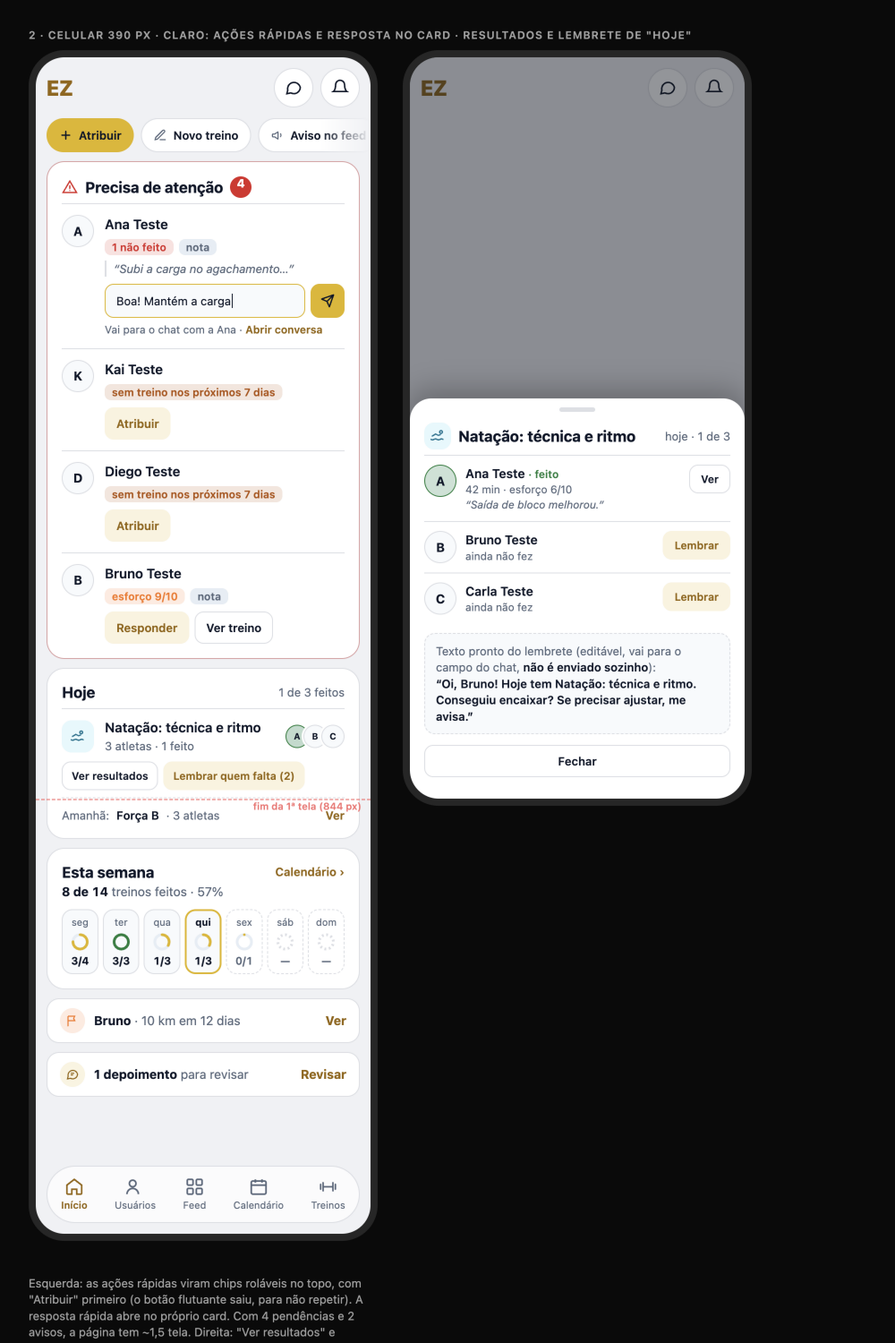
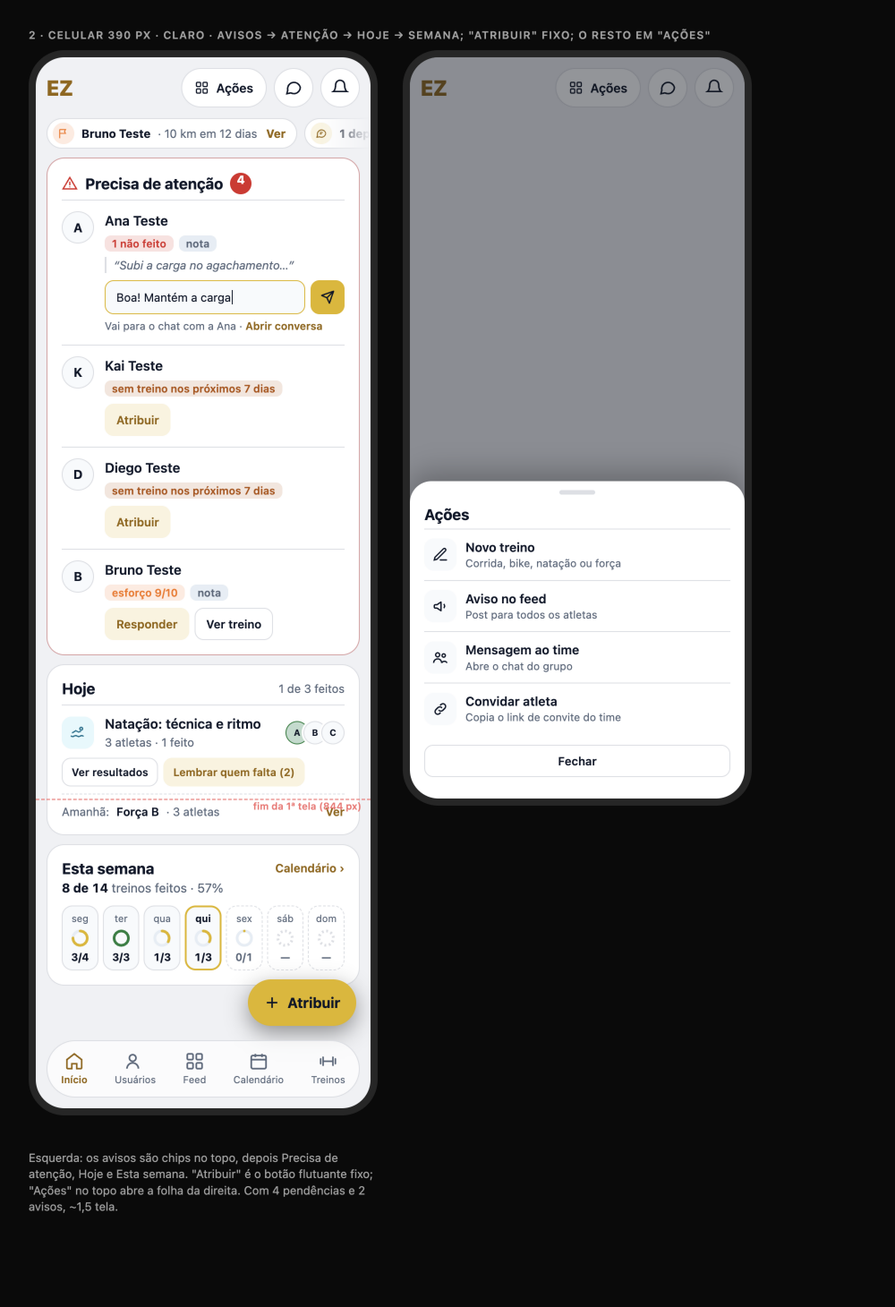
docs: coach dashboard layout variants A/B (balanced grid, actions menu, notice chips)

Changed region(s): [[0.031, 0.0, 0.775, 0.9247], [0.434, 0.2774, 0.837, 0.6164], [0.031, 0.9555, 0.403, 1.0]]

diff --git a/docs/design/coach-dashboard/dashboard-mockup.html b/docs/design/coach-dashboard/dashboard-mockup.html
@@ -3,7 +3,7 @@
 <head>
 <meta charset="utf-8">
 <meta name="viewport" content="width=device-width, initial-scale=1">
-<title>EZ · Dashboard do coach, enxuto + ações rápidas (12/11/2026)</title>
+<title>EZ · Dashboard do coach, layout A e B (12/11/2026)</title>
 <!-- Mockup estático: só CSS e SVG inline. Dados fictícios do seed. Tokens: design-system §1.5. -->
 <style>
   :root{--font:'Inter',system-ui,-apple-system,'Segoe UI',sans-serif;--display:'Montserrat','Inter',system-ui,sans-serif;
@@ -105,6 +105,32 @@
   .wd7 .c.on{border:2px solid var(--primary);padding:5px 0 6px}.wd7 .c.on span:first-child{color:var(--fg);font-weight:700}
   .wd7 .c.hv{outline:2px solid var(--fg);outline-offset:1px}
   .wd7 svg{width:22px;height:22px;transform:rotate(-90deg)}
+
+  .card,.att{border-radius:20px}
+  .desk.auto{height:auto}
+  .main{gap:14px}
+  .hd{display:flex;align-items:center;gap:10px}.hd .t{flex:1}.hd small{display:block;font-size:13px;color:var(--mfg)}.hd b.h{font:800 24px var(--display)}
+  .ob{height:40px;padding:0 14px;border-radius:11px;border:1px solid var(--border);background:var(--card);font:600 14px var(--font);display:inline-flex;align-items:center;gap:8px;color:var(--fg);position:relative}
+  .ob svg{width:16px;height:16px}
+  .ib{width:40px;height:40px;border-radius:11px;border:1px solid var(--border);background:var(--card);display:grid;place-items:center;color:var(--mfg);position:relative}.ib svg{width:17px;height:17px}
+  .ib.hv{color:var(--fg);border-color:var(--mfg)}
+  .menu{position:absolute;top:46px;right:0;width:260px;background:var(--card);border:1px solid var(--border);border-radius:14px;padding:6px;box-shadow:0 16px 40px rgba(0,0,0,.45);z-index:5}
+  .menu div{display:flex;gap:10px;align-items:center;padding:9px 10px;border-radius:9px;font-size:14px;font-weight:500}.menu div svg{width:16px;height:16px;color:var(--mfg)}.menu div:first-child{background:var(--s2)}
+  .menu small{margin-left:auto;font-size:12px;color:var(--mfg)}
+  .ns{display:flex;gap:8px;flex-wrap:nowrap}
+  .nc{height:34px;display:inline-flex;align-items:center;gap:8px;padding:0 12px 0 6px;border-radius:99px;background:var(--card);border:1px solid var(--border);font-size:13px;white-space:nowrap}
+  .nc .ic{width:24px;height:24px;border-radius:99px;display:grid;place-items:center}.nc .ic svg{width:13px;height:13px}
+  .nc .m{color:var(--mfg)}.nc a{color:var(--ink);font-weight:700;margin-left:2px}
+  .gA{display:grid;grid-template-columns:3fr 2fr;gap:14px;align-items:stretch}
+  .gA .att{max-height:640px;overflow:auto}
+  .col{display:flex;flex-direction:column;gap:14px}
+  .col .card:first-child{flex:1;display:flex;flex-direction:column}.col .card:first-child .tmr{margin-top:auto}
+  .gB2{display:grid;grid-template-columns:1fr 1fr;gap:14px;align-items:stretch}
+  .gB2 .card{display:flex;flex-direction:column}.gB2 .card .tmr{margin-top:auto}
+  .gB2 .wd7{flex:1;margin-top:6px}.gB2 .wd7 .c{align-content:center;gap:10px;font-size:12px}.gB2 .wd7 svg{width:34px;height:34px}.gB2 .wd7 .c b{font-size:15px}
+  .a4{display:grid;grid-template-columns:1fr 1fr;gap:10px;margin-top:6px}
+  .a4 .ai{border:1px solid var(--border);border-radius:14px;padding:12px;background:var(--s2)}
+  .sub{display:flex;gap:6px;align-items:center;margin-top:4px;font-size:13px;color:var(--mfg)}
 </style>
 </head>
 <body>
@@ -131,19 +157,18 @@
   <symbol id="bellr" viewBox="0 0 24 24" fill="none" stroke="currentColor" stroke-width="2"><path d="M6 8a6 6 0 0 1 12 0c0 7 3 9 3 9H3s3-2 3-9"/><path d="M10 21h4"/></symbol>
   <symbol id="chart" viewBox="0 0 24 24" fill="none" stroke="currentColor" stroke-width="2" stroke-linecap="round"><path d="M4 20V10M10 20V4M16 20v-7M22 20H2"/></symbol>
   <symbol id="check" viewBox="0 0 24 24" fill="none" stroke="currentColor" stroke-width="2.6" stroke-linecap="round" stroke-linejoin="round"><path d="m5 12 5 5 9-10"/></symbol>
-</defs></svg>
+<symbol id="grid2" viewBox="0 0 24 24"/></defs></svg>
 
-<h1 class="ttl">EZ · Dashboard do coach: enxuto + ações rápidas</h1>
-<p class="doc">Mockup estático (12/11/2026), dados fictícios do seed. As mesmas três perguntas (<b>quem precisa de mim?</b> · <b>o que acontece hoje?</b> · <b>como vai a semana?</b>), agora com <b>mais ações e nenhum número a mais</b>: faixa de ações rápidas, resposta no próprio card, resultados e lembrete por treino, e um card compacto "Esta semana" (feitos/planejados por dia; tocar abre o Calendário nesse dia). Nenhum dado novo; o que reaproveita e o que é código novo está no README.</p>
 
-<div class="lbl">1 · Desktop 1440 × 900 · escuro · cabe numa tela</div>
-<div class="row"><div class="desk dark" style="position:relative">
- <div class="side"><div class="lg">EZ</div><div class="i on">Início</div><div class="i">Usuários</div><div class="i">Treinos</div><div class="i">Times</div><div class="i">Calendário</div><div class="i">Artigos</div><div class="i">Feed</div><div class="i">Depoimentos</div></div>
- <div class="main">
-  <div class="head"><div class="t"><small>Quinta, 12 nov</small><b>Bom dia, Coach</b></div>
-   <div class="qa"><span class="qb"><svg width="14" height="14"><use href="#edit"/></svg>Novo treino</span><span class="qb"><svg width="14" height="14"><use href="#mega"/></svg>Aviso no feed</span><span class="qb"><svg width="14" height="14"><use href="#team"/></svg>Mensagem ao time</span><span class="qb"><svg width="14" height="14"><use href="#link"/></svg>Convidar atleta</span><span class="btn"><svg width="16" height="16"><use href="#plus"/></svg>Atribuir treino</span></div></div>
-  <div class="g2">
-   <div class="att">
+<h1 class="ttl">EZ · Dashboard do coach: layout (A e B) e celular</h1>
+<p class="doc">Mockup estático (12/11/2026), dados fictícios do seed. Conteúdo aprovado; aqui só muda a <b>distribuição</b>. Mesmo gap (14 px) e mesmo raio (20 px) em todos os cards; topos e bases alinhados. "Atribuir treino" é o único botão primário. Avisos viram chips numa linha e somem quando não há.</p>
+<div class="lbl">1 · Desktop 1440 · escuro · A (grade proposta) e B (alternativa), lado a lado</div>
+<div class="row" style="flex-wrap:nowrap">
+ <div id="varA"><div class="lbl" style="color:#fff">A · atenção 60% | Hoje + Esta semana 40%, mesma altura</div><div class="desk dark auto"><div class="side"><div class="lg">EZ</div><div class="i on">Início</div><div class="i">Usuários</div><div class="i">Treinos</div><div class="i">Times</div><div class="i">Calendário</div><div class="i">Artigos</div><div class="i">Feed</div><div class="i">Depoimentos</div></div><div class="main">
+ <div class="hd"><div class="t"><small>Quinta, 12 nov</small><b class="h">Bom dia, Coach</b></div>
+  <span class="ob"><svg width="14" height="14"><use href="#grid"/></svg>Ações<svg width="12" height="12" viewBox="0 0 24 24" fill="none" stroke="currentColor" stroke-width="2.4"><path d="m6 9 6 6 6-6"/></svg></span><span class="btn"><svg width="16" height="16"><use href="#plus"/></svg>Atribuir treino</span></div>
+ <div class="ns"><span class="nc"><span class="ic" style="background:hsl(25 95% 53% / .15);color:var(--str)"><svg width="14" height="14"><use href="#flag"/></svg></span><b>Bruno Teste</b><span class="m">· Corrida 10 km em 12 dias</span><a>Ver</a></span><span class="nc"><span class="ic" style="background:hsl(48 96% 45% / .15);color:var(--ink)"><svg width="14" height="14"><use href="#quote"/></svg></span><b>1 depoimento</b><span class="m">para revisar</span><a>Revisar</a></span></div>
+ <div class="gA"><div class="att">
     <div class="ch"><b><svg width="18" height="18" style="color:var(--badc)"><use href="#alert"/></svg>Precisa de atenção <span class="cnt">4</span></b><span class="r">últimos 7 dias</span></div>
     <div class="ai"><span class="av">A</span><div class="t"><div class="nm">Ana Teste</div><div class="chips"><span class="chip c-bad">1 não feito</span><span class="chip c-mut">nota</span></div><div class="quote">“Subi a carga no agachamento. Última série pesada.”</div>
       <div class="rp"><div class="in">Boa! Na próxima, mantém a carga e controla a descida<i></i></div><span class="sd"><svg width="14" height="14"><use href="#send"/></svg></span></div>
@@ -151,30 +176,34 @@
     <div class="ai wide"><span class="av">K</span><div class="t"><div class="nm">Kai Teste</div><div class="chips"><span class="chip c-warn">sem treino nos próximos 7 dias</span></div></div><div class="acts"><span class="ab y"><svg width="14" height="14"><use href="#plus"/></svg>Atribuir</span></div></div>
     <div class="ai wide"><span class="av">D</span><div class="t"><div class="nm">Diego Teste</div><div class="chips"><span class="chip c-warn">sem treino nos próximos 7 dias</span></div></div><div class="acts"><span class="ab y"><svg width="14" height="14"><use href="#plus"/></svg>Atribuir</span></div></div>
     <div class="ai wide"><span class="av">B</span><div class="t"><div class="nm">Bruno Teste</div><div class="chips"><span class="chip c-str">esforço 9/10</span><span class="chip c-mut">nota</span></div><div class="quote">“Saí mais cedo, dor no ombro.”</div></div><div class="acts"><span class="ab y"><svg width="14" height="14"><use href="#msg"/></svg>Responder</span><span class="ab"><svg width="14" height="14"><use href="#eye"/></svg>Ver treino</span></div></div>
-   </div>
-   <div style="display:grid;gap:12px">
-    <div class="card"><div class="ch" style="margin-bottom:8px"><b>Hoje</b><span class="r">1 de 3 feitos</span></div>
+   </div><div class="col"><div class="card"><div class="ch" style="margin-bottom:8px"><b>Hoje</b><span class="r">1 de 3 feitos</span></div>
      <div class="ag"><span class="si" style="background:hsl(188 86% 53% / .15);color:var(--swim)"><svg><use href="#swim"/></svg></span><div class="t"><b>Natação: técnica e ritmo</b><span>3 atletas · 1 feito</span></div><span class="stack"><span class="av ok">A</span><span class="av">B</span><span class="av">C</span></span></div>
-     <div class="wa"><span class="ab"><svg width="14" height="14"><use href="#chart"/></svg>Ver resultados</span><span class="ab y"><svg width="14" height="14"><use href="#bellr"/></svg>Lembrar quem falta (2)</span></div>
+     <div style="margin:2px 0 4px 48px;border-left:2px solid var(--border);padding-left:12px"><div style="display:flex;align-items:center;gap:10px;padding:7px 0;font-size:13px"><span class="av" style="width:26px;height:26px;font-size:11px;background:color-mix(in srgb,var(--okc) 25%,var(--s2));border-color:var(--okc)">A</span><span style="flex:1"><b style="font-weight:600">Ana Teste</b> <span style="color:var(--okc)">· feito · 42 min · esforço 6/10</span></span><a style="color:var(--ink);font-weight:600;font-size:13px">Ver</a></div><div style="display:flex;align-items:center;gap:10px;padding:7px 0;font-size:13px"><span class="av" style="width:26px;height:26px;font-size:11px;">B</span><span style="flex:1"><b style="font-weight:600">Bruno Teste</b> <span style="color:var(--mfg)">· ainda não fez</span></span><span class="ab y" style="height:30px;font-size:12px;padding:0 10px"><svg width="13" height="13"><use href="#bellr"/></svg>Lembrar</span></div><div style="display:flex;align-items:center;gap:10px;padding:7px 0;font-size:13px"><span class="av" style="width:26px;height:26px;font-size:11px;">C</span><span style="flex:1"><b style="font-weight:600">Carla Teste</b> <span style="color:var(--mfg)">· ainda não fez</span></span><span class="ab y" style="height:30px;font-size:12px;padding:0 10px"><svg width="13" height="13"><use href="#bellr"/></svg>Lembrar</span></div></div>
      <div class="tmr">Amanhã: <b>Força B: membros superiores</b> · 3 atletas<a>Ver</a></div>
-    </div>
-    <div class="card wc"><div class="ch" style="margin-bottom:4px"><b>Esta semana</b><a class="r" style="color:var(--ink);font-weight:600">Calendário ›</a></div><div class="sum"><b>8 de 14</b> treinos feitos · 57%</div><div class="wd7"><div class="c "><span>seg</span><svg viewBox="0 0 22 22"><circle cx="11" cy="11" r="8" fill="none" stroke="var(--muted)" stroke-width="3"/><circle cx="11" cy="11" r="8" fill="none" stroke="var(--primary)" stroke-width="3" stroke-linecap="round" stroke-dasharray="37.7 50.27"/></svg><b>3/4</b></div><div class="c "><span>ter</span><svg viewBox="0 0 22 22"><circle cx="11" cy="11" r="8" fill="none" stroke="var(--muted)" stroke-width="3"/><circle cx="11" cy="11" r="8" fill="none" stroke="var(--okc)" stroke-width="3" stroke-linecap="round" stroke-dasharray="50.3 50.27"/></svg><b>3/3</b></div><div class="c hv"><span>qua</span><svg viewBox="0 0 22 22"><circle cx="11" cy="11" r="8" fill="none" stroke="var(--muted)" stroke-width="3"/><circle cx="11" cy="11" r="8" fill="none" stroke="var(--primary)" stroke-width="3" stroke-linecap="round" stroke-dasharray="16.8 50.27"/></svg><b>1/3</b><span class="tip" style="top:calc(100% + 7px)">Abrir qua, 11 nov no Calendário</span></div><div class="c on"><span>qui</span><svg viewBox="0 0 22 22"><circle cx="11" cy="11" r="8" fill="none" stroke="var(--muted)" stroke-width="3"/><circle cx="11" cy="11" r="8" fill="none" stroke="var(--primary)" stroke-width="3" stroke-linecap="round" stroke-dasharray="16.8 50.27"/></svg><b>1/3</b></div><div class="c fut"><span>sex</span><svg viewBox="0 0 22 22"><circle cx="11" cy="11" r="8" fill="none" stroke="var(--muted)" stroke-width="3"/><circle cx="11" cy="11" r="8" fill="none" stroke="var(--primary)" stroke-width="3" stroke-linecap="round" stroke-dasharray="0.0 50.27"/></svg><b>0/1</b></div><div class="c fut"><span>sáb</span><svg viewBox="0 0 22 22"><circle cx="11" cy="11" r="8" fill="none" stroke="var(--border)" stroke-width="3" stroke-dasharray="2 3"/></svg><b>—</b></div><div class="c fut"><span>dom</span><svg viewBox="0 0 22 22"><circle cx="11" cy="11" r="8" fill="none" stroke="var(--border)" stroke-width="3" stroke-dasharray="2 3"/></svg><b>—</b></div></div></div>
-    <div class="nt"><span class="ic" style="background:hsl(25 95% 53% / .15);color:var(--str)"><svg><use href="#flag"/></svg></span><span><b>Bruno Teste</b> <span class="m">· Corrida 10 km em 12 dias</span></span><a>Ver</a></div>
-    <div class="nt"><span class="ic" style="background:hsl(48 96% 45% / .15);color:var(--ink)"><svg><use href="#quote"/></svg></span><span><b>1 depoimento</b> <span class="m">para revisar</span></span><a>Revisar</a></div>
-   </div>
-  </div>
- </div>
- <div class="toast" style="left:calc(220px + 50%)"><svg width="16" height="16"><use href="#check"/></svg>Link de convite do time copiado</div>
+    </div><div class="card wc"><div class="ch" style="margin-bottom:4px"><b>Esta semana</b><a class="r" style="color:var(--ink);font-weight:600">Calendário ›</a></div><div class="sum"><b>8 de 14</b> treinos feitos · 57%</div><div class="wd7"><div class="c "><span>seg</span><svg viewBox="0 0 22 22"><circle cx="11" cy="11" r="8" fill="none" stroke="var(--muted)" stroke-width="3"/><circle cx="11" cy="11" r="8" fill="none" stroke="var(--primary)" stroke-width="3" stroke-linecap="round" stroke-dasharray="37.7 50.27"/></svg><b>3/4</b></div><div class="c "><span>ter</span><svg viewBox="0 0 22 22"><circle cx="11" cy="11" r="8" fill="none" stroke="var(--muted)" stroke-width="3"/><circle cx="11" cy="11" r="8" fill="none" stroke="var(--okc)" stroke-width="3" stroke-linecap="round" stroke-dasharray="50.3 50.27"/></svg><b>3/3</b></div><div class="c hv"><span>qua</span><svg viewBox="0 0 22 22"><circle cx="11" cy="11" r="8" fill="none" stroke="var(--muted)" stroke-width="3"/><circle cx="11" cy="11" r="8" fill="none" stroke="var(--primary)" stroke-width="3" stroke-linecap="round" stroke-dasharray="16.8 50.27"/></svg><b>1/3</b><span class="tip" style="top:calc(100% + 7px)">Abrir qua, 11 nov no Calendário</span></div><div class="c on"><span>qui</span><svg viewBox="0 0 22 22"><circle cx="11" cy="11" r="8" fill="none" stroke="var(--muted)" stroke-width="3"/><circle cx="11" cy="11" r="8" fill="none" stroke="var(--primary)" stroke-width="3" stroke-linecap="round" stroke-dasharray="16.8 50.27"/></svg><b>1/3</b></div><div class="c fut"><span>sex</span><svg viewBox="0 0 22 22"><circle cx="11" cy="11" r="8" fill="none" stroke="var(--muted)" stroke-width="3"/><circle cx="11" cy="11" r="8" fill="none" stroke="var(--primary)" stroke-width="3" stroke-linecap="round" stroke-dasharray="0.0 50.27"/></svg><b>0/1</b></div><div class="c fut"><span>sáb</span><svg viewBox="0 0 22 22"><circle cx="11" cy="11" r="8" fill="none" stroke="var(--border)" stroke-width="3" stroke-dasharray="2 3"/></svg><b>—</b></div><div class="c fut"><span>dom</span><svg viewBox="0 0 22 22"><circle cx="11" cy="11" r="8" fill="none" stroke="var(--border)" stroke-width="3" stroke-dasharray="2 3"/></svg><b>—</b></div></div></div></div></div>
 </div></div>
-<p class="note" style="max-width:1100px;margin-top:-28px;margin-bottom:40px">Cabe em 1440 × 900 sem rolar. Estados mostrados ao mesmo tempo só para o mockup: resposta rápida aberta na Ana, dica ao passar o mouse em "qua" no card da semana e o toast de "Convidar atleta". "Atribuir treino" continua o botão principal, à direita.</p>
-
-<div class="lbl">2 · Celular 390 px · claro: ações rápidas e resposta no card · resultados e lembrete de "Hoje"</div>
-<div class="row">
-<div class="phone light" style="height:1330px">
- <div class="top"><span style="font:800 24px var(--display);color:var(--ink)">EZ</span><div style="display:flex;gap:8px"><div class="g"><svg><use href="#msg"/></svg></div><div class="g"><svg><use href="#bell"/></svg></div></div></div>
- <div class="pp">
-  <div class="chiprow"><span class="qb p"><svg width="14" height="14"><use href="#plus"/></svg>Atribuir</span><span class="qb"><svg width="14" height="14"><use href="#edit"/></svg>Novo treino</span><span class="qb"><svg width="14" height="14"><use href="#mega"/></svg>Aviso no feed</span><span class="qb"><svg width="14" height="14"><use href="#team"/></svg>Mensagem ao time</span><span class="qb"><svg width="14" height="14"><use href="#link"/></svg>Convidar</span></div>
-  <div class="att">
+  <p class="note" style="max-width:1340px">Linha 1: saudação | "Ações ▾" (menu com Novo treino, Aviso no feed, Mensagem ao time, Convidar atleta) + "Atribuir treino". Linha 2: avisos como chips. Linha 3: duas colunas da mesma altura; "Hoje" mostra quem fez e quem falta (com "Lembrar") e "Esta semana" fecha a base junto com "Precisa de atenção" (rolagem interna acima de 640 px). <b style="color:#fff">Recomendado:</b> aguenta listas longas de atenção sem empurrar "Hoje" para baixo, e o 1º bloco lido continua sendo "Precisa de atenção".</p></div>
+ <div id="varB"><div class="lbl" style="color:#fff">B · atenção na largura toda (grade 2 × 2) | Hoje e Esta semana lado a lado</div><div class="desk dark auto"><div class="side"><div class="lg">EZ</div><div class="i on">Início</div><div class="i">Usuários</div><div class="i">Treinos</div><div class="i">Times</div><div class="i">Calendário</div><div class="i">Artigos</div><div class="i">Feed</div><div class="i">Depoimentos</div></div><div class="main">
+ <div class="hd"><div class="t"><small>Quinta, 12 nov</small><b class="h">Bom dia, Coach</b>
+   <div class="sub"><div class="ns" style="margin-top:6px"><span class="nc"><span class="ic" style="background:hsl(25 95% 53% / .15);color:var(--str)"><svg width="14" height="14"><use href="#flag"/></svg></span><b>Bruno Teste</b><span class="m">· Corrida 10 km em 12 dias</span><a>Ver</a></span><span class="nc"><span class="ic" style="background:hsl(48 96% 45% / .15);color:var(--ink)"><svg width="14" height="14"><use href="#quote"/></svg></span><b>1 depoimento</b><span class="m">para revisar</span><a>Revisar</a></span></div></div></div>
+  <span class="ib"><svg width="14" height="14"><use href="#edit"/></svg></span><span class="ib"><svg width="14" height="14"><use href="#mega"/></svg></span><span class="ib hv"><svg width="14" height="14"><use href="#team"/></svg><span class="tip" style="top:46px">Mensagem ao time</span></span><span class="ib"><svg width="14" height="14"><use href="#link"/></svg></span><span class="btn"><svg width="16" height="16"><use href="#plus"/></svg>Atribuir treino</span></div>
+ <div class="att"><div class="ch"><b><svg width="18" height="18" style="color:var(--badc)"><use href="#alert"/></svg>Precisa de atenção <span class="cnt">4</span></b><span class="r">últimos 7 dias</span></div>
+  <div class="a4">
+   <div class="ai"><span class="av">A</span><div class="t"><div class="nm">Ana Teste</div><div class="chips"><span class="chip c-bad">1 não feito</span><span class="chip c-mut">nota</span></div><div class="quote">“Subi a carga no agachamento. Última série pesada.”</div><div class="acts"><span class="ab y"><svg width="14" height="14"><use href="#msg"/></svg>Responder</span><span class="ab"><svg width="14" height="14"><use href="#eye"/></svg>Ver treino</span></div></div></div>
+   <div class="ai"><span class="av">B</span><div class="t"><div class="nm">Bruno Teste</div><div class="chips"><span class="chip c-str">esforço 9/10</span><span class="chip c-mut">nota</span></div><div class="quote">“Saí mais cedo, dor no ombro.”</div><div class="acts"><span class="ab y"><svg width="14" height="14"><use href="#msg"/></svg>Responder</span><span class="ab"><svg width="14" height="14"><use href="#eye"/></svg>Ver treino</span></div></div></div>
+   <div class="ai"><span class="av">K</span><div class="t"><div class="nm">Kai Teste</div><div class="chips"><span class="chip c-warn">sem treino nos próximos 7 dias</span></div><div class="acts"><span class="ab y"><svg width="14" height="14"><use href="#plus"/></svg>Atribuir</span></div></div></div>
+   <div class="ai"><span class="av">D</span><div class="t"><div class="nm">Diego Teste</div><div class="chips"><span class="chip c-warn">sem treino nos próximos 7 dias</span></div><div class="acts"><span class="ab y"><svg width="14" height="14"><use href="#plus"/></svg>Atribuir</span></div></div></div>
+  </div></div>
+ <div class="gB2"><div class="card"><div class="ch" style="margin-bottom:8px"><b>Hoje</b><span class="r">1 de 3 feitos</span></div>
+     <div class="ag"><span class="si" style="background:hsl(188 86% 53% / .15);color:var(--swim)"><svg><use href="#swim"/></svg></span><div class="t"><b>Natação: técnica e ritmo</b><span>3 atletas · 1 feito</span></div><span class="stack"><span class="av ok">A</span><span class="av">B</span><span class="av">C</span></span></div>
+     <div style="margin:2px 0 4px 48px;border-left:2px solid var(--border);padding-left:12px"><div style="display:flex;align-items:center;gap:10px;padding:7px 0;font-size:13px"><span class="av" style="width:26px;height:26px;font-size:11px;background:color-mix(in srgb,var(--okc) 25%,var(--s2));border-color:var(--okc)">A</span><span style="flex:1"><b style="font-weight:600">Ana Teste</b> <span style="color:var(--okc)">· feito · 42 min · esforço 6/10</span></span><a style="color:var(--ink);font-weight:600;font-size:13px">Ver</a></div><div style="display:flex;align-items:center;gap:10px;padding:7px 0;font-size:13px"><span class="av" style="width:26px;height:26px;font-size:11px;">B</span><span style="flex:1"><b style="font-weight:600">Bruno Teste</b> <span style="color:var(--mfg)">· ainda não fez</span></span><span class="ab y" style="height:30px;font-size:12px;padding:0 10px"><svg width="13" height="13"><use href="#bellr"/></svg>Lembrar</span></div><div style="display:flex;align-items:center;gap:10px;padding:7px 0;font-size:13px"><span class="av" style="width:26px;height:26px;font-size:11px;">C</span><span style="flex:1"><b style="font-weight:600">Carla Teste</b> <span style="color:var(--mfg)">· ainda não fez</span></span><span class="ab y" style="height:30px;font-size:12px;padding:0 10px"><svg width="13" height="13"><use href="#bellr"/></svg>Lembrar</span></div></div>
+     <div class="tmr">Amanhã: <b>Força B: membros superiores</b> · 3 atletas<a>Ver</a></div>
+    </div><div class="card wc"><div class="ch" style="margin-bottom:4px"><b>Esta semana</b><a class="r" style="color:var(--ink);font-weight:600">Calendário ›</a></div><div class="sum"><b>8 de 14</b> treinos feitos · 57%</div><div class="wd7"><div class="c "><span>seg</span><svg viewBox="0 0 22 22"><circle cx="11" cy="11" r="8" fill="none" stroke="var(--muted)" stroke-width="3"/><circle cx="11" cy="11" r="8" fill="none" stroke="var(--primary)" stroke-width="3" stroke-linecap="round" stroke-dasharray="37.7 50.27"/></svg><b>3/4</b></div><div class="c "><span>ter</span><svg viewBox="0 0 22 22"><circle cx="11" cy="11" r="8" fill="none" stroke="var(--muted)" stroke-width="3"/><circle cx="11" cy="11" r="8" fill="none" stroke="var(--okc)" stroke-width="3" stroke-linecap="round" stroke-dasharray="50.3 50.27"/></svg><b>3/3</b></div><div class="c "><span>qua</span><svg viewBox="0 0 22 22"><circle cx="11" cy="11" r="8" fill="none" stroke="var(--muted)" stroke-width="3"/><circle cx="11" cy="11" r="8" fill="none" stroke="var(--primary)" stroke-width="3" stroke-linecap="round" stroke-dasharray="16.8 50.27"/></svg><b>1/3</b></div><div class="c on"><span>qui</span><svg viewBox="0 0 22 22"><circle cx="11" cy="11" r="8" fill="none" stroke="var(--muted)" stroke-width="3"/><circle cx="11" cy="11" r="8" fill="none" stroke="var(--primary)" stroke-width="3" stroke-linecap="round" stroke-dasharray="16.8 50.27"/></svg><b>1/3</b></div><div class="c fut"><span>sex</span><svg viewBox="0 0 22 22"><circle cx="11" cy="11" r="8" fill="none" stroke="var(--muted)" stroke-width="3"/><circle cx="11" cy="11" r="8" fill="none" stroke="var(--primary)" stroke-width="3" stroke-linecap="round" stroke-dasharray="0.0 50.27"/></svg><b>0/1</b></div><div class="c fut"><span>sáb</span><svg viewBox="0 0 22 22"><circle cx="11" cy="11" r="8" fill="none" stroke="var(--border)" stroke-width="3" stroke-dasharray="2 3"/></svg><b>—</b></div><div class="c fut"><span>dom</span><svg viewBox="0 0 22 22"><circle cx="11" cy="11" r="8" fill="none" stroke="var(--border)" stroke-width="3" stroke-dasharray="2 3"/></svg><b>—</b></div></div></div></div>
+</div></div>
+  <p class="note" style="max-width:1340px">Linha 1: saudação com os avisos logo abaixo | 4 ícones com rótulo no hover + "Atribuir treino". Linha 2: "Precisa de atenção" em grade 2 × 2 (até 6 cards, depois "Ver todos"). Linha 3: Hoje | Esta semana, 50/50, mesma altura. Bom com até 4–6 pendências; com mais, a grade empurra "Hoje" para baixo da dobra.</p></div>
+</div>
+<div class="lbl">2 · Celular 390 px · claro · avisos → atenção → hoje → semana; "Atribuir" fixo; o resto em "Ações"</div>
+<div class="row"><div class="phone light" style="height:1190px"><div class="top"><span style="font:800 24px var(--display);color:var(--ink)">EZ</span><div style="display:flex;gap:8px"><span class="ob" style="height:44px;border-radius:99px"><svg width="14" height="14"><use href="#grid"/></svg>Ações</span><div class="g"><svg><use href="#msg"/></svg></div><div class="g"><svg><use href="#bell"/></svg></div></div></div><div class="pp"><div class="ns chiprow" style="margin:0 -12px"><span class="nc"><span class="ic" style="background:hsl(25 95% 53% / .15);color:var(--str)"><svg width="14" height="14"><use href="#flag"/></svg></span><b>Bruno Teste</b><span class="m">· 10 km em 12 dias</span><a>Ver</a></span><span class="nc"><span class="ic" style="background:hsl(48 96% 45% / .15);color:var(--ink)"><svg width="14" height="14"><use href="#quote"/></svg></span><b>1 depoimento</b><span class="m">para revisar</span><a>Revisar</a></span></div><div class="att">
    <div class="ch"><b><svg width="18" height="18" style="color:var(--badc)"><use href="#alert"/></svg>Precisa de atenção <span class="cnt">4</span></b></div>
    <div class="ai"><span class="av">A</span><div class="t"><div class="nm">Ana Teste</div><div class="chips"><span class="chip c-bad">1 não feito</span><span class="chip c-mut">nota</span></div><div class="quote">“Subi a carga no agachamento…”</div>
      <div class="rp"><div class="in">Boa! Mantém a carga<i></i></div><span class="sd"><svg width="14" height="14"><use href="#send"/></svg></span></div>
@@ -182,32 +211,13 @@
    <div class="ai"><span class="av">K</span><div class="t"><div class="nm">Kai Teste</div><div class="chips"><span class="chip c-warn">sem treino nos próximos 7 dias</span></div><div class="acts"><span class="ab y">Atribuir</span></div></div></div>
    <div class="ai"><span class="av">D</span><div class="t"><div class="nm">Diego Teste</div><div class="chips"><span class="chip c-warn">sem treino nos próximos 7 dias</span></div><div class="acts"><span class="ab y">Atribuir</span></div></div></div>
    <div class="ai" style="padding-bottom:0"><span class="av">B</span><div class="t"><div class="nm">Bruno Teste</div><div class="chips"><span class="chip c-str">esforço 9/10</span><span class="chip c-mut">nota</span></div><div class="acts"><span class="ab y">Responder</span><span class="ab">Ver treino</span></div></div></div>
-  </div>
-  <div class="card"><div class="ch" style="margin-bottom:8px"><b>Hoje</b><span class="r">1 de 3 feitos</span></div>
+  </div><div class="card"><div class="ch" style="margin-bottom:8px"><b>Hoje</b><span class="r">1 de 3 feitos</span></div>
    <div class="ag"><span class="si" style="background:hsl(188 86% 53% / .15);color:hsl(192 91% 30%)"><svg><use href="#swim"/></svg></span><div class="t"><b>Natação: técnica e ritmo</b><span>3 atletas · 1 feito</span></div><span class="stack"><span class="av ok">A</span><span class="av">B</span><span class="av">C</span></span></div>
    <div class="wa" style="margin-left:0"><span class="ab">Ver resultados</span><span class="ab y">Lembrar quem falta (2)</span></div>
    <div class="tmr">Amanhã: <b>Força B</b> · 3 atletas<a>Ver</a></div>
-  </div>
-  <div class="card wc"><div class="ch" style="margin-bottom:4px"><b>Esta semana</b><a class="r" style="color:var(--ink);font-weight:600">Calendário ›</a></div><div class="sum"><b>8 de 14</b> treinos feitos · 57%</div><div class="wd7"><div class="c "><span>seg</span><svg viewBox="0 0 22 22"><circle cx="11" cy="11" r="8" fill="none" stroke="var(--muted)" stroke-width="3"/><circle cx="11" cy="11" r="8" fill="none" stroke="var(--primary)" stroke-width="3" stroke-linecap="round" stroke-dasharray="37.7 50.27"/></svg><b>3/4</b></div><div class="c "><span>ter</span><svg viewBox="0 0 22 22"><circle cx="11" cy="11" r="8" fill="none" stroke="var(--muted)" stroke-width="3"/><circle cx="11" cy="11" r="8" fill="none" stroke="var(--okc)" stroke-width="3" stroke-linecap="round" stroke-dasharray="50.3 50.27"/></svg><b>3/3</b></div><div class="c "><span>qua</span><svg viewBox="0 0 22 22"><circle cx="11" cy="11" r="8" fill="none" stroke="var(--muted)" stroke-width="3"/><circle cx="11" cy="11" r="8" fill="none" stroke="var(--primary)" stroke-width="3" stroke-linecap="round" stroke-dasharray="16.8 50.27"/></svg><b>1/3</b></div><div class="c on"><span>qui</span><svg viewBox="0 0 22 22"><circle cx="11" cy="11" r="8" fill="none" stroke="var(--muted)" stroke-width="3"/><circle cx="11" cy="11" r="8" fill="none" stroke="var(--primary)" stroke-width="3" stroke-linecap="round" stroke-dasharray="16.8 50.27"/></svg><b>1/3</b></div><div class="c fut"><span>sex</span><svg viewBox="0 0 22 22"><circle cx="11" cy="11" r="8" fill="none" stroke="var(--muted)" stroke-width="3"/><circle cx="11" cy="11" r="8" fill="none" stroke="var(--primary)" stroke-width="3" stroke-linecap="round" stroke-dasharray="0.0 50.27"/></svg><b>0/1</b></div><div class="c fut"><span>sáb</span><svg viewBox="0 0 22 22"><circle cx="11" cy="11" r="8" fill="none" stroke="var(--border)" stroke-width="3" stroke-dasharray="2 3"/></svg><b>—</b></div><div class="c fut"><span>dom</span><svg viewBox="0 0 22 22"><circle cx="11" cy="11" r="8" fill="none" stroke="var(--border)" stroke-width="3" stroke-dasharray="2 3"/></svg><b>—</b></div></div></div>
-  <div class="nt"><span class="ic" style="background:hsl(25 95% 53% / .15);color:var(--str)"><svg><use href="#flag"/></svg></span><span><b>Bruno</b> <span class="m">· 10 km em 12 dias</span></span><a>Ver</a></div>
-  <div class="nt"><span class="ic" style="background:hsl(48 96% 45% / .15);color:var(--ink)"><svg><use href="#quote"/></svg></span><span><b>1 depoimento</b> <span class="m">para revisar</span></span><a>Revisar</a></div>
- </div>
+  </div><div class="card wc"><div class="ch" style="margin-bottom:4px"><b>Esta semana</b><a class="r" style="color:var(--ink);font-weight:600">Calendário ›</a></div><div class="sum"><b>8 de 14</b> treinos feitos · 57%</div><div class="wd7"><div class="c "><span>seg</span><svg viewBox="0 0 22 22"><circle cx="11" cy="11" r="8" fill="none" stroke="var(--muted)" stroke-width="3"/><circle cx="11" cy="11" r="8" fill="none" stroke="var(--primary)" stroke-width="3" stroke-linecap="round" stroke-dasharray="37.7 50.27"/></svg><b>3/4</b></div><div class="c "><span>ter</span><svg viewBox="0 0 22 22"><circle cx="11" cy="11" r="8" fill="none" stroke="var(--muted)" stroke-width="3"/><circle cx="11" cy="11" r="8" fill="none" stroke="var(--okc)" stroke-width="3" stroke-linecap="round" stroke-dasharray="50.3 50.27"/></svg><b>3/3</b></div><div class="c "><span>qua</span><svg viewBox="0 0 22 22"><circle cx="11" cy="11" r="8" fill="none" stroke="var(--muted)" stroke-width="3"/><circle cx="11" cy="11" r="8" fill="none" stroke="var(--primary)" stroke-width="3" stroke-linecap="round" stroke-dasharray="16.8 50.27"/></svg><b>1/3</b></div><div class="c on"><span>qui</span><svg viewBox="0 0 22 22"><circle cx="11" cy="11" r="8" fill="none" stroke="var(--muted)" stroke-width="3"/><circle cx="11" cy="11" r="8" fill="none" stroke="var(--primary)" stroke-width="3" stroke-linecap="round" stroke-dasharray="16.8 50.27"/></svg><b>1/3</b></div><div class="c fut"><span>sex</span><svg viewBox="0 0 22 22"><circle cx="11" cy="11" r="8" fill="none" stroke="var(--muted)" stroke-width="3"/><circle cx="11" cy="11" r="8" fill="none" stroke="var(--primary)" stroke-width="3" stroke-linecap="round" stroke-dasharray="0.0 50.27"/></svg><b>0/1</b></div><div class="c fut"><span>sáb</span><svg viewBox="0 0 22 22"><circle cx="11" cy="11" r="8" fill="none" stroke="var(--border)" stroke-width="3" stroke-dasharray="2 3"/></svg><b>—</b></div><div class="c fut"><span>dom</span><svg viewBox="0 0 22 22"><circle cx="11" cy="11" r="8" fill="none" stroke="var(--border)" stroke-width="3" stroke-dasharray="2 3"/></svg><b>—</b></div></div></div></div>
  <div class="fold" style="top:828px">fim da 1ª tela (844 px)</div>
- <div class="tabs"><div class="on"><svg><use href="#home"/></svg>Início</div><div><svg><use href="#users"/></svg>Usuários</div><div><svg><use href="#grid"/></svg>Feed</div><div><svg><use href="#cal"/></svg>Calendário</div><div><svg><use href="#dumb"/></svg>Treinos</div></div>
-</div>
-<div class="phone light" style="height:844px">
- <div class="top"><span style="font:800 24px var(--display);color:var(--ink)">EZ</span><div style="display:flex;gap:8px"><div class="g"><svg><use href="#msg"/></svg></div><div class="g"><svg><use href="#bell"/></svg></div></div></div>
- <div class="scrim"></div>
- <div class="sheet"><div class="gr"></div>
-  <div class="ch"><b><span class="si" style="width:30px;height:30px;background:hsl(188 86% 53% / .15);color:hsl(192 91% 30%)"><svg width="16" height="16"><use href="#swim"/></svg></span>Natação: técnica e ritmo</b><span class="r">hoje · 1 de 3</span></div>
-  <div class="rr"><span class="av" style="background:color-mix(in srgb,var(--okc) 20%,var(--s2));border-color:var(--okc)">A</span><div class="t"><b>Ana Teste</b> <span style="display:inline;color:var(--okc);font-weight:600">· feito</span><span>42 min · esforço 6/10</span><span style="font-style:italic">“Saída de bloco melhorou.”</span></div><span class="ab" style="height:32px;font-size:12px">Ver</span></div>
-  <div class="rr"><span class="av">B</span><div class="t"><b>Bruno Teste</b><span>ainda não fez</span></div><span class="ab y" style="height:32px;font-size:12px">Lembrar</span></div>
-  <div class="rr"><span class="av">C</span><div class="t"><b>Carla Teste</b><span>ainda não fez</span></div><span class="ab y" style="height:32px;font-size:12px">Lembrar</span></div>
-  <div class="draft">Texto pronto do lembrete (editável, vai para o campo do chat, <b>não é enviado sozinho</b>):<br><b>“Oi, Bruno! Hoje tem Natação: técnica e ritmo. Conseguiu encaixar? Se precisar ajustar, me avisa.”</b></div>
-  <div style="display:flex;margin-top:12px"><span class="ab" style="flex:1;justify-content:center">Fechar</span></div>
- </div>
-</div>
-<p class="note">Esquerda: as ações rápidas viram chips roláveis no topo, com "Atribuir" primeiro (o botão flutuante saiu, para não repetir). A resposta rápida abre no próprio card. Com 4 pendências e 2 avisos, a página tem ~1,5 tela. Direita: "Ver resultados" e "Lembrar quem falta" abrem a mesma folha. "Lembrar" abre o chat de cada atleta com o texto já no campo; o coach revisa e envia.</p>
-</div>
-</body>
-</html>
+ <div class="fab"><svg width="18" height="18"><use href="#plus"/></svg>Atribuir</div><div class="tabs"><div class="on"><svg><use href="#home"/></svg>Início</div><div><svg><use href="#users"/></svg>Usuários</div><div><svg><use href="#grid"/></svg>Feed</div><div><svg><use href="#cal"/></svg>Calendário</div><div><svg><use href="#dumb"/></svg>Treinos</div></div></div><div class="phone light" style="height:844px"><div class="top"><span style="font:800 24px var(--display);color:var(--ink)">EZ</span><div style="display:flex;gap:8px"><span class="ob" style="height:44px;border-radius:99px"><svg width="14" height="14"><use href="#grid"/></svg>Ações</span><div class="g"><svg><use href="#msg"/></svg></div><div class="g"><svg><use href="#bell"/></svg></div></div></div><div class="scrim"></div>
+ <div class="sheet"><div class="gr"></div><div class="ch"><b>Ações</b></div><div class="rr" style="align-items:center"><span class="si" style="background:var(--s2);color:var(--fg)"><svg><use href="#edit"/></svg></span><div class="t"><b>Novo treino</b><span>Corrida, bike, natação ou força</span></div></div><div class="rr" style="align-items:center"><span class="si" style="background:var(--s2);color:var(--fg)"><svg><use href="#mega"/></svg></span><div class="t"><b>Aviso no feed</b><span>Post para todos os atletas</span></div></div><div class="rr" style="align-items:center"><span class="si" style="background:var(--s2);color:var(--fg)"><svg><use href="#team"/></svg></span><div class="t"><b>Mensagem ao time</b><span>Abre o chat do grupo</span></div></div><div class="rr" style="align-items:center"><span class="si" style="background:var(--s2);color:var(--fg)"><svg><use href="#link"/></svg></span><div class="t"><b>Convidar atleta</b><span>Copia o link de convite do time</span></div></div><div style="display:flex;margin-top:12px"><span class="ab" style="flex:1;justify-content:center">Fechar</span></div></div></div>
+<p class="note">Esquerda: os avisos são chips no topo, depois Precisa de atenção, Hoje e Esta semana. "Atribuir" é o botão flutuante fixo; "Ações" no topo abre a folha da direita. Com 4 pendências e 2 avisos, ~1,5 tela.</p></div>
+</body></html>

diff --git a/docs/design/coach-dashboard/README.md b/docs/design/coach-dashboard/README.md
@@ -36,14 +36,25 @@ Testado no emulador como `coach@ez.test`, em 1440 px e 390 px, tema escuro. Dado
 
 ## 2. Proposta enxuta
 
-![Desktop 1440 escuro, uma tela, com ações rápidas](img/proposta-1-desktop.png)
-![Celular claro: chips de ação e resposta no card; folha de resultados e lembrete](img/proposta-2-mobile.png)
+**Ordem:** cabeçalho (saudação, "Ações", "Atribuir treino") → **chips de aviso**, só quando existem → **precisa de atenção** → **hoje** (+ linha de amanhã) → **esta semana**.
 
-**Ordem:** cabeçalho (data, saudação, **ações rápidas**) → **precisa de atenção** (desktop: coluna principal) → **hoje** (+ linha de amanhã) → **esta semana** (card pequeno; desktop: abaixo de "Hoje", na coluna da direita) → avisos, só quando existem.
+### Layout (ajuste de 12/11: "ainda não está bem distribuído")
+Conteúdo igual ao aprovado; muda só a distribuição. Regras para as duas variações: **mesmo gap (14 px) e mesmo raio (20 px)** em todos os cards, topos e bases alinhados, **"Atribuir treino" como único botão primário**, e avisos como **chips numa linha** que somem quando não há aviso.
 
-### 2.0 Ações rápidas (faixa abaixo da saudação)
-- **Desktop:** na linha da saudação, à direita; "Atribuir treino" continua o botão principal (amarelo, por último) e as outras 4 são botões de contorno.
-- **Celular:** chips roláveis no topo, com "Atribuir" primeiro. **O botão flutuante sai** (repetiria "Atribuir").
+| A · grade proposta (**recomendada**) | B · alternativa |
+|---|---|
+| ![](img/proposta-1a-desktop.png) | ![](img/proposta-1b-desktop.png) |
+
+- **A:** linha 1, saudação | "Ações ▾" (menu: Novo treino, Aviso no feed, Mensagem ao time, Convidar atleta) + "Atribuir treino". Linha 2, chips de aviso. Linha 3, duas colunas da **mesma altura**: "Precisa de atenção" (60%, rolagem interna acima de 640 px) | "Hoje" em cima e "Esta semana" embaixo (40%). Para "Hoje" não sobrar vazio, ele mostra **quem fez e quem falta** do treino do dia, com "Lembrar" por atleta (o mesmo conteúdo da folha "Ver resultados", agora inline no desktop).
+- **B:** saudação com os chips de aviso logo abaixo | 4 ícones com rótulo no hover + "Atribuir treino". "Precisa de atenção" na largura toda, em grade 2 × 2 (até 6 cards, depois "Ver todos"). Embaixo, Hoje | Esta semana, 50/50, mesma altura.
+- **Por que A:** aguenta listas longas de atenção (rolagem interna) sem empurrar "Hoje" para baixo da dobra, e "Precisa de atenção" continua o 1º bloco lido. B fica bonita com 4 pendências, mas com 8 a grade ocupa a tela toda.
+- **Celular** (as duas variações): chips de aviso → Precisa de atenção → Hoje → Esta semana; **"Atribuir" fixo** (botão flutuante) e o resto no botão **"Ações"** do topo, que abre uma folha.
+
+![Celular claro: ordem e folha "Ações"](img/proposta-2-mobile.png)
+
+### 2.0 Ações rápidas
+- **Desktop:** "Atribuir treino" (primário) + as outras 4 num menu "Ações ▾" (A) ou em ícones com rótulo no hover (B). Nada de 5 botões grandes.
+- **Celular:** "Atribuir" fixo como botão flutuante; as outras 4 na folha "Ações" (botão no topo).
 
 | Ação | O que faz | Status | Onde já existe |
 |---|---|---|---|
@@ -98,7 +109,7 @@ Testado no emulador como `coach@ez.test`, em 1440 px e 390 px, tema escuro. Dado
 - **Amanhã** é **uma linha** no fim do card: "Amanhã: Força B · 3 atletas · Ver".
 - **Sem treino hoje:** "Nenhum treino hoje", e a linha de amanhã continua.
 
-### 2.4 Avisos condicionais (1 linha cada, só quando existem)
+### 2.4 Avisos condicionais (chips numa linha, só quando existem)
 - **Prova em menos de 14 dias:** "Bruno Teste · Corrida 10 km em 12 dias · Ver".
 - **Depoimento pendente:** "1 depoimento para revisar · Revisar".
 - Quando não há nenhum, nada aparece. Não há estado vazio nem título de seção.
@@ -129,10 +140,10 @@ Testado no emulador como `coach@ez.test`, em 1440 px e 390 px, tema escuro. Dado
 |---|---|---|---|
 | ⭐ CD-1 | **Precisa de atenção como bloco principal:** coluna principal no desktop e 2º bloco no celular; chips por motivo; **resposta rápida no card** (campo + enviar no chat); Ver treino; Atribuir; estado vazio. | M | `src/pages/admin/Dashboard.tsx` (bloco `attention`, ~l. 176-215, e o JSX), `src/components/admin/AttentionList.tsx` (novo), `src/services/chat.ts` (só uso) |
 | ⭐ CD-2 | **Card "Esta semana"** abaixo de "Hoje": "x de y treinos feitos · %" só da semana atual + 7 dias compactos (anel + "feitos/planejados", hoje destacado, futuros tracejados); **tocar no dia abre `/admin/calendar?date=`** (Calendar passa a ler `date`). Hook `useTeamWeekStats(assignments)` com contagem por dia, com teste. | P | `Dashboard.tsx`, `src/components/admin/WeekCard.tsx` (novo), `src/hooks/useTeamWeekStats.ts` (novo), `src/pages/admin/Calendar.tsx` |
-| ⭐ CD-3 | **Ações rápidas:** faixa no desktop e chips roláveis no celular (Atribuir, Novo treino, Aviso no feed, Mensagem ao time, Convidar atleta), todas com fluxos que já existem; menu de time quando houver mais de um; remover o botão flutuante. | P | `Dashboard.tsx`, `src/components/admin/QuickActions.tsx` (novo), `src/contexts/TimelineActionsContext.tsx` (só uso) |
+| ⭐ CD-3 | **Layout e ações rápidas:** grade A (atenção 60% com rolagem interna | Hoje + Esta semana 40%, mesma altura; gap 14, raio 20); "Atribuir treino" + menu "Ações" (Novo treino, Aviso no feed, Mensagem ao time, Convidar atleta); no celular, "Atribuir" flutuante e folha "Ações". | P | `Dashboard.tsx`, `src/components/admin/QuickActions.tsx` (novo, `DropdownMenu`/`Sheet` do shadcn) |
 | ⭐ CD-4 | **Remover o que saiu:** cards de inventário, "Conclusão geral", tendência (`LineChart`), tabela de atletas, "Destaques", faixa de datas, "Atividade de hoje", "Atividade recente", "Times", bloco "Amanhã". | P | `Dashboard.tsx` (~l. 400-760) |
 | CD-5 | **Hoje agrupado por treino** + linha "Amanhã" + **Ver resultados / Lembrar quem falta** (folha com rpe e nota; "Lembrar" abre o chat com o texto no campo, sem envio automático). | M | `Dashboard.tsx`, `src/components/admin/TodayWorkoutSheet.tsx` (novo), `src/components/chat/ChatWindow.tsx` (rascunho já existe) |
-| CD-6 | **Avisos condicionais:** prova em menos de 14 dias e depoimento pendente, uma linha cada, nada quando não existem. | P | `Dashboard.tsx` |
+| CD-6 | **Avisos condicionais** como chips numa linha (prova em menos de 14 dias, depoimento pendente), que some quando não há aviso; "quem fez / quem falta" inline em "Hoje" no desktop. | P | `Dashboard.tsx` |
 | CD-7 | QA: 1440 × 900 sem rolar; 390 px em ~1,4 tela com 4 pendências e 2 avisos; claro e escuro; com 0 pendências, 0 treinos hoje, 0 avisos, 1 e 2 times; resposta rápida (enviar, Esc, erro de rede); lembrete não envia sozinho (EZ QA). | P | testes do EZ QA |
 
 **Ordem:** CD-1 → CD-2 → CD-3 → CD-4 (≈ 1 dia) → CD-5 → CD-6 → CD-7.
